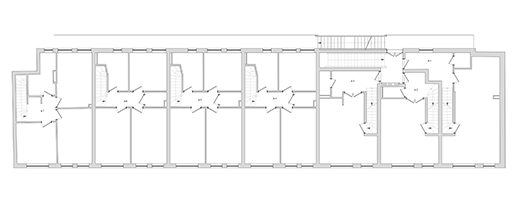
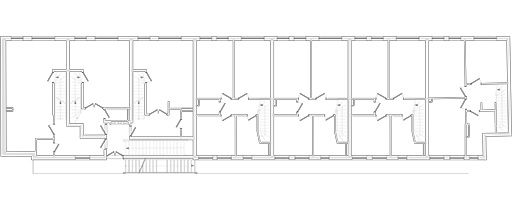
gogogo

Changed region(s): [[0.0, 0.1435, 1.0, 0.8325]]

diff --git a/app/assets/stylesheets/mixins.css.scss b/app/assets/stylesheets/mixins.css.scss
@@ -76,6 +76,7 @@
 }
 
 @mixin fill-with-apartments(
+  $direction: 'right',
   $container-width: 75px,
   $container-height: 110px,
   $start-position: 0,
@@ -132,41 +133,41 @@
   @while $start-from <= $last-apartment {
     .apartment:nth-child(#{$start-from}) {
       //@error $start-from;
-      right: $start-position;
+      #{$direction}: $start-position;
       top: $top-position;
       width: $container-width;
 
       @if $i == 1 {
-        right: $start-position;
+        #{$direction}: $start-position;
         width: $apartment1-width;
       }
       @if $i == 2 {
-        right: $start-position + $apartment1-width;
+        #{$direction}: $start-position + $apartment1-width;
         width: $apartment2-width;
       }
       @if $i == 3 {
-        right: $start-position + $apartment1-width + $apartment2-width;
+        #{$direction}: $start-position + $apartment1-width + $apartment2-width;
         width: $apartment3-width;
       }
       @if $i == 4 {
-        right: $start-position + $apartment1-width + $apartment2-width + $apartment3-width;
+        #{$direction}: $start-position + $apartment1-width + $apartment2-width + $apartment3-width;
         width: $apartment4-width;
       }
       @if $i == 5 {
-        right: $start-position + $apartment1-width + $apartment2-width + $apartment3-width + $apartment4-width;
+        #{$direction}: $start-position + $apartment1-width + $apartment2-width + $apartment3-width + $apartment4-width;
         width: $apartment5-width;
       }
       @if $i == 6 {
-        right: $start-position + $apartment1-width + $apartment2-width + $apartment3-width + $apartment4-width + $apartment5-width;
+        #{$direction}: $start-position + $apartment1-width + $apartment2-width + $apartment3-width + $apartment4-width + $apartment5-width;
         width: $apartment6-width;
       }
       @if $i == 7 {
-        right: $start-position + $apartment1-width + $apartment2-width + $apartment3-width + $apartment4-width + $apartment5-width + $apartment6-width;
+        #{$direction}: $start-position + $apartment1-width + $apartment2-width + $apartment3-width + $apartment4-width + $apartment5-width + $apartment6-width;
         width: $apartment7-width;
       }
 
       @if $i == 8 {
-        right: $start-position + $apartment1-width + $apartment2-width + $apartment3-width + $apartment4-width + $apartment5-width + $apartment6-width + $apartment7-width;
+        #{$direction}: $start-position + $apartment1-width + $apartment2-width + $apartment3-width + $apartment4-width + $apartment5-width + $apartment6-width + $apartment7-width;
         width: $apartment8-width;
       }
     }

diff --git a/app/assets/stylesheets/apartments/_apartments_render.css.scss b/app/assets/stylesheets/apartments/_apartments_render.css.scss
@@ -41,25 +41,40 @@
     }
 
     &.floor-1 {
+
+      &.cs {
+        background-image: image-url('apartments/plans/1-a-cs.png');
+      }
+
+      &.en {
+        background-image: image-url('apartments/plans/1-a-en.png');
+      }
+
+      &.ru {
+        background-image: image-url('apartments/plans/1-a-ru.png');
+      }
+
       @include fill-with-apartments(
-        $container-width: em(75),
-        $container-height: em(110),
+        $direction: 'left',
+        $container-width: em(78),
+        $container-height: em(125),
         $start-position: em(195),
-        $top-position: 24%,
+        $top-position: 16%,
         $last-apartment: 4)
     }
 
     // Single apartment styles
     &.floor-2, &.floor-3 {
       @include fill-with-apartments(
-        $container-width: em(75),
-        $container-height: em(115),
-        $start-position: em(12),
-        $top-position: 24%,
+        $direction: 'left',
+        $container-width: em(77),
+        $container-height: em(123),
+        $start-position: em(1),
+        $top-position: 17%,
         $last-apartment: 7,
-        $apartment1-width: em(60),
-        $apartment2-width: em(60),
-        $apartment3-width: em(60),
+        $apartment1-width: em(67),
+        $apartment2-width: em(63),
+        $apartment3-width: em(64),
         $apartment7-width: em(80))
     }
   }
@@ -69,22 +84,24 @@
 
     &.floor-1, &.floor-2 {
       @include fill-with-apartments(
+        $direction: 'left',
         $container-width: 60px,
         $container-height: 105px,
         $start-position: 12px,
         $top-position: 25%,
         $last-apartment: 8,
-        $apartment8-width: 70px)
+        $apartment1-width: 70px)
     }
 
     &.floor-3 {
       @include fill-with-apartments(
+        $direction: 'left',
         $container-width: 59px,
         $container-height: 100px,
         $start-position: 17px,
         $top-position: 25%,
         $last-apartment: 8,
-        $apartment8-width: 65px)
+        $apartment1-width: 65px)
     }
   }
 

diff --git a/app/assets/stylesheets/layout.css.scss b/app/assets/stylesheets/layout.css.scss
@@ -2,7 +2,7 @@
 
 html {
   @media #{$small-only} {
-    font-size: $rem-base - 4;
+    font-size: $rem-base - 2;
   }
 
   @media #{$medium-only} {
@@ -256,6 +256,10 @@ header.application {
           width: 24%;
           display: inline-block;
           text-align: center;
+        }
+
+        .viber {
+          margin-right: rem(10);
         }
       }
 

diff --git a/app/assets/stylesheets/apartments/_index_page.css.scss b/app/assets/stylesheets/apartments/_index_page.css.scss
@@ -53,7 +53,6 @@
           @for $i from 1 through 3 {
             &[data-floor = "#{$i}"] {
               &[data-building = "a"] {
-                @include active-map($building: "a");
                 @include active-map($floor: $i, $building: "a");
               }
 

diff --git a/app/assets/stylesheets/semantic_ui.css.scss b/app/assets/stylesheets/semantic_ui.css.scss
@@ -54,8 +54,8 @@
   cursor: pointer;
   right: 0;
   display: inline-block;
-  width: 50px;
-  height: 50px;
+  width: 65px;
+  height: 65px;
   padding: 20px;
   vertical-align: middle;
   line-height: 1;

diff --git a/app/assets/stylesheets/contacts.css.scss b/app/assets/stylesheets/contacts.css.scss
@@ -59,6 +59,10 @@
     .logo-small {
       margin-top: rem_calc(30);
     }
+
+    .architect {
+      margin-bottom: rem-calc(30);
+    }
   }
 
   @include custom-row-gutter(10, 20);
